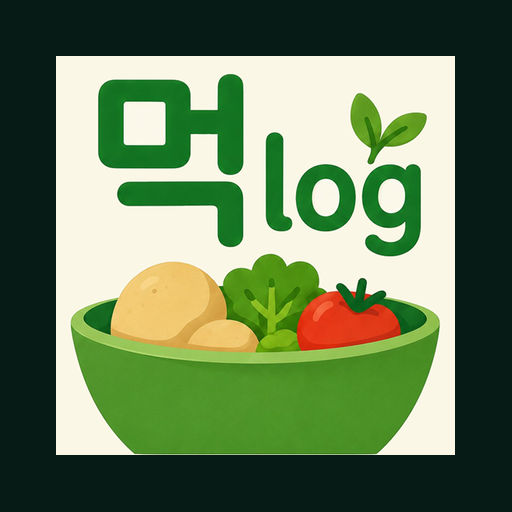
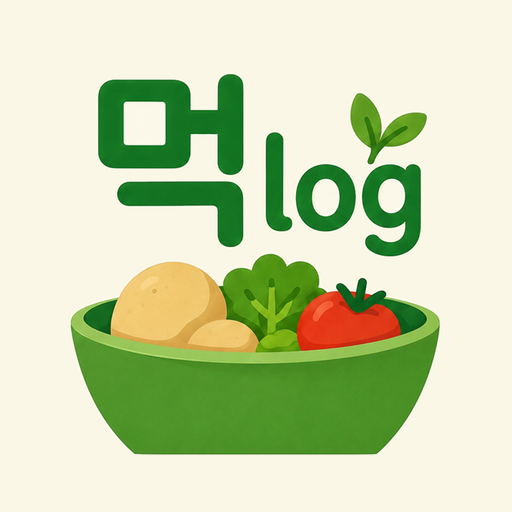
v0.1.13: 아이콘 letterbox·스플래시 배경 #FAF7E6 (앱 아이콘 크림톤과 동일)

diff --git a/src/pages/SettingsPage.tsx b/src/pages/SettingsPage.tsx
@@ -361,7 +361,7 @@ export default function SettingsPage() {
             개인정보 처리방침 · 서비스 안내
           </Link>
         </p>
-        <p className="text-[11px] text-slate-600">먹로그 v0.1.12</p>
+        <p className="text-[11px] text-slate-600">먹로그 v0.1.13</p>
       </section>
     </div>
   );

diff --git a/vite.config.ts b/vite.config.ts
@@ -33,7 +33,7 @@ export default defineConfig(({ command }) => ({
         short_name: "먹로그",
         description: "달력·식단·AI 분석과 친구 피드 — 한 기기에서는 내 기록 중심",
         theme_color: "#10b981",
-        background_color: "#061a16",
+        background_color: "#FAF7E6",
         display: "standalone",
         orientation: "portrait",
         lang: "ko",